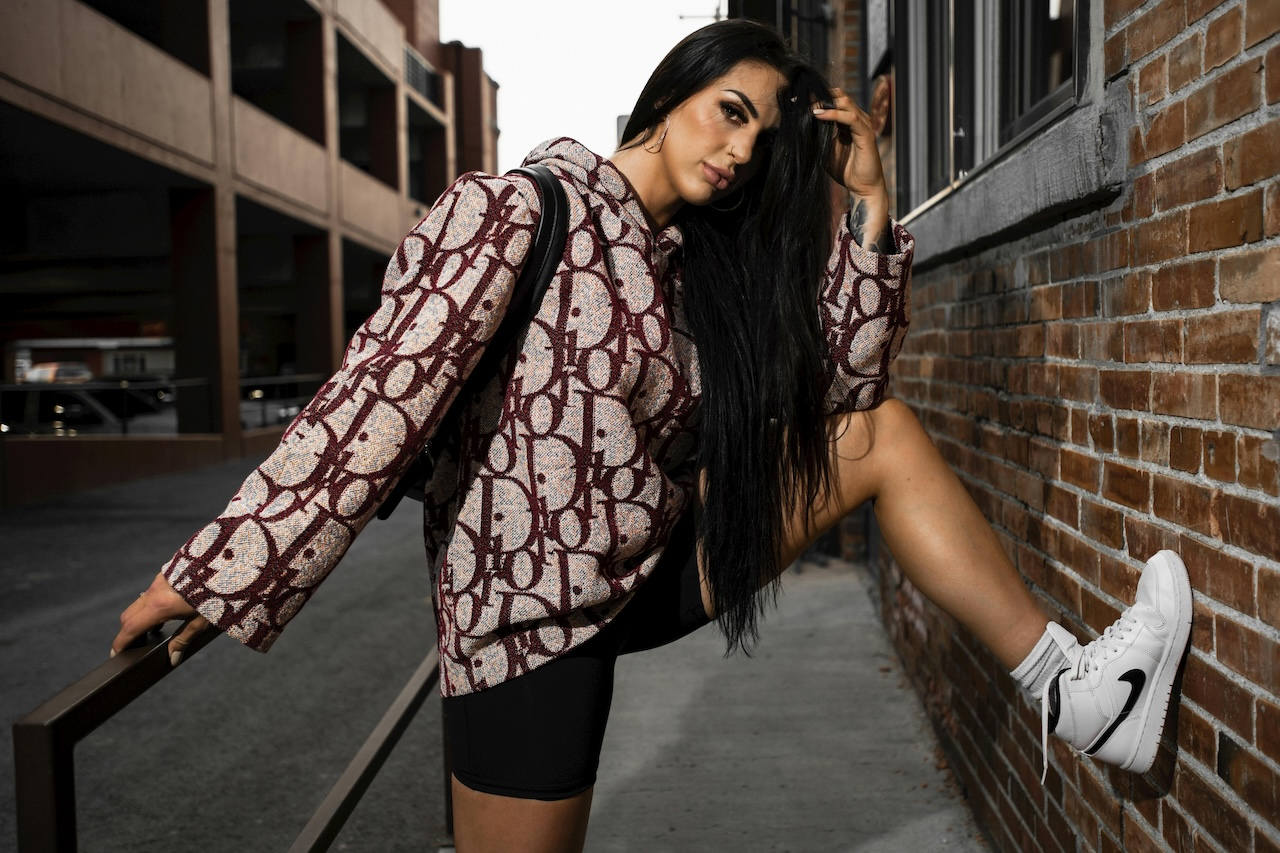
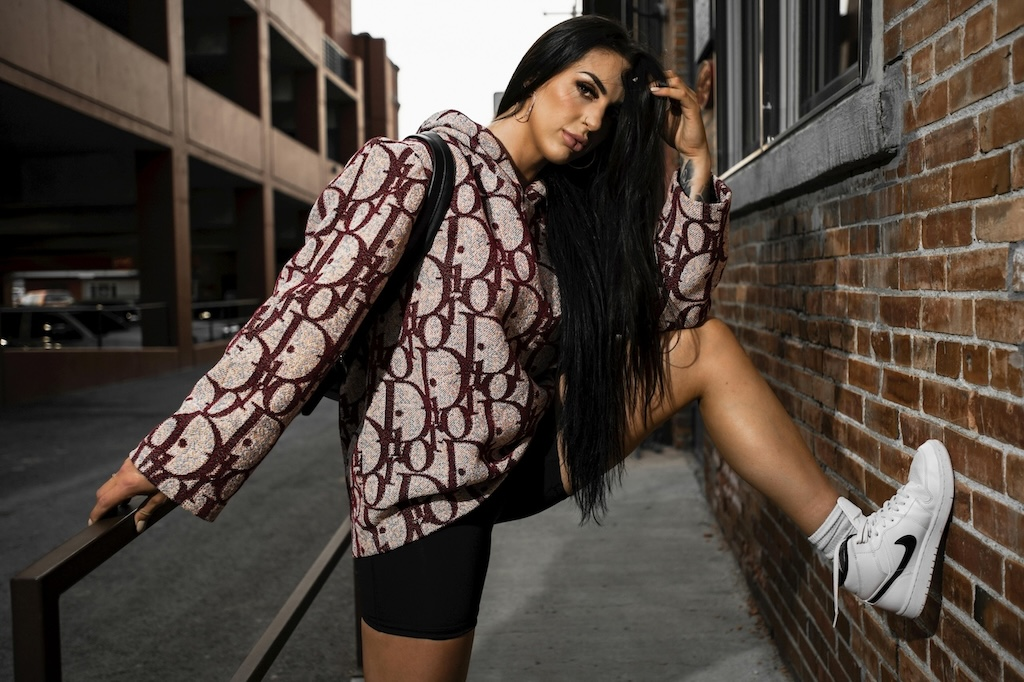
Replace gallery images with smaller sized ones for faster load in browser

diff --git a/gallery.html b/gallery.html
@@ -45,41 +45,42 @@
             <div class="gallery-grid">
                 <div class="gallery-item">
                     <p>Vivienne Westwood</p>
-                    <img src="assets/images/dynamicvw.jpg" alt="Vivienne Westwood">
-                    <img src="assets/images/vwchain.jpg" alt="Vivienne Westwood">
                     <img src="assets/images/vwdinamicc.jpg" alt="Vivienne Westwood">
+                    <img src="assets/images/vwchain.jpg" alt="Vivienne Westwood">
                     <img src="assets/images/vwmodel.jpg" alt="Vivienne Westwood">
-                    <img src="assets/images/vwshop.jpg" alt="Vivienne Westwood">
-                    <img src="assets/images/vwsign.jpg" alt="Vivienne Westwood">
+                    <img src="assets/images/dynamicvw.jpg" alt="Vivienne Westwood">
                     <img src="assets/images/vwstore.jpg" alt="Vivienne Westwood">
+                    <img src="assets/images/vwsign.jpg" alt="Vivienne Westwood">
+                    <img src="assets/images/vwshop.jpg" alt="Vivienne Westwood">
                 </div>
                 <div class="gallery-item">
                     <p>Coco Chanel</p>
-                    <img src="assets/images/cccar.jpg" alt="Coco Chanel">
                     <img src="assets/images/ccmodel.jpg" alt="Coco Chanel">
+                    <img src="assets/images/cccar.jpg" alt="Coco Chanel">
+                    <img src="assets/images/ccbag.jpg" alt="Coco Chanel">
                     <img src="assets/images/ccbuilding.jpg" alt="Coco Chanel">
                     <img src="assets/images/ccparfume.jpg" alt="Coco Chanel">
-                    <img src="assets/images/ccbag.jpg" alt="Coco Chanel">
-                    <img src="assets/images/ccshop.jpg" alt="Coco Chanel">
+                    <img src="assets/images/cc.shopp.jpg" alt="Coco Chanel">
                 </div>
                 <div class="gallery-item">
                     <p>Yves Saint Laurent</p>
                     <img src="assets/images/yslmodel.jpg" alt="Yves Saint Laurent">
-                    <img src="assets/images/yslrose.jpg" alt="Yves Saint Laurent">
                     <img src="assets/images/yslbag.jpg" alt="Yves Saint Laurent">
                     <img src="assets/images/yslopium.jpg" alt="Yves Saint Laurent">
-                    <img src="assets/images/yslsign.jpg" alt="Yves Saint Laurent">
                     <img src="assets/images/ysl.jpg" alt="Yves Saint Laurent">
+                    <img src="assets/images/yslred.jpg" alt="Yves Saint Laurent">
+                    <img src="assets/images/yslrose.jpg" alt="Yves Saint Laurent">
+                    <img src="assets/images/yslsign.jpg" alt="Yves Saint Laurent">
                 </div>
                 <div class="gallery-item">
                     <p>Christian Dior</p>
                     <img src="assets/images/diorair.jpg" alt="Christian Dior">
                     <img src="assets/images/diorbags.jpg" alt="Christian Dior">
-                    <img src="assets/images/diorlip.jpg" alt="Christian Dior">
                     <img src="assets/images/diormodel.jpg" alt="Christian Dior">
-                    <img src="assets/images/diornight.jpg" alt="Christian Dior">
-                    <img src="assets/images/diorumbrella.jpg" alt="Christian Dior">
                     <img src="assets/images/diorhat.jpg" alt="Christian Dior">
+                    <img src="assets/images/diorumbrella.jpg" alt="Christian Dior">
+                    <img src="assets/images/diornight.jpg" alt="Christian Dior">
+                    <img src="assets/images/diorshades.jpg" alt="Christian Dior">
                 </div>
             </div>
         </section>

diff --git a/README.md b/README.md
@@ -142,7 +142,8 @@ The website was tested on different browsers (Chrome, Firefox, and Safari) to en
 
 #### Accessibility
 The website was tested using  Lighthouse   [PageSpeed Insights](https://pagespeed.web.dev/) to ensure accessibility. It achieved high scores for Accessibility,  Best  Practices and SEO.
--  Mobile:
+
+ Mobile:
 
 ![screenshot home](assets/readme-images/page-insight-home-mobile.png) ![screenshot gallery](assets/readme-images/page-insight-gallery-mobile.png)  ![screenshot contact](assets/readme-images/page-insight-contact-mobile.png)
 
